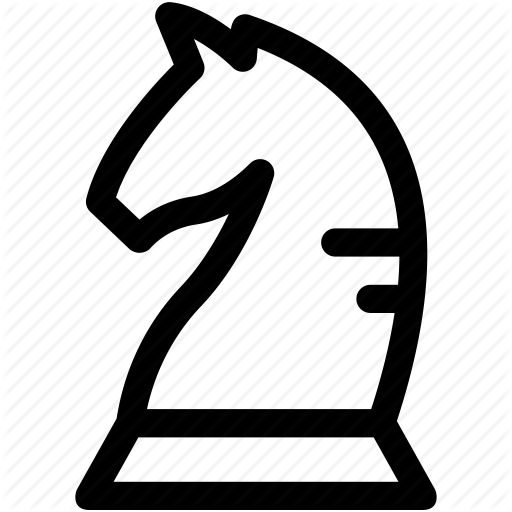
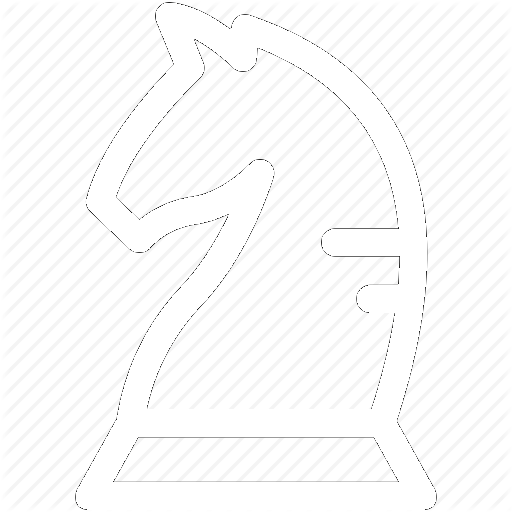
Assembled the ARMY Fixed the licence and images. Placed the pieces.

Changed region(s): [[0.125, 0.0, 0.875, 1.0]]

diff --git a/src/sfmlcanvas.cpp b/src/sfmlcanvas.cpp
@@ -4,10 +4,18 @@
 sfCanvas::sfCanvas(QWidget *parent, const QPoint& position, const QSize& size) :
     QSFMLCanvas(parent, position, size)
 {
-    QResource n(":/knight");
-    mTexture.loadFromMemory(n.data(),std::size_t(n.size()));
-    mSprite.setTexture(mTexture);
-    mSprite.setColor(sf::Color(51,51,51));
+    QResource n(":/king");
+    king.loadFromMemory(n.data(),std::size_t(n.size()));
+    n.setFileName(":/queen");
+    queen.loadFromMemory(n.data(),std::size_t(n.size()));
+    n.setFileName(":/bishop");
+    bishop.loadFromMemory(n.data(),std::size_t(n.size()));
+    n.setFileName(":/knight");
+    knight.loadFromMemory(n.data(),std::size_t(n.size()));
+    n.setFileName(":/rook");
+    rook.loadFromMemory(n.data(),std::size_t(n.size()));
+    n.setFileName(":/pawn");
+    pawn.loadFromMemory(n.data(),std::size_t(n.size()));
 }
 
 void sfCanvas::onInit()
@@ -21,17 +29,32 @@ void sfCanvas::onUpdate()
     int h = height()/8, w = width()/8;
 
     sf::RectangleShape rect(sf::Vector2f(w,h));
-    rect.setOutlineColor(sf::Color::Green);
     for(int i=0;i<8;i++)
         for(int j=0;j<8;j++)
         {
-            rect.setFillColor((i+j)%2?sf::Color::White:sf::Color::Black);
+            rect.setFillColor((i+j)%2?sf::Color(179,179,179):sf::Color(77,77,77));
             rect.setPosition(i*w,j*h);
             sf::RenderWindow::draw(rect);
-            if(i==1 && j==0)
+            if(j==6 || j==1)
             {
-                rect.setTexture(&mTexture,true);
-                rect.setFillColor(sf::Color::White);
+                rect.setTexture(&pawn);
+                rect.setFillColor(j==6?sf::Color::Black:sf::Color::White);
+                sf::RenderWindow::draw(rect);
+                rect.setTexture(nullptr,true);
+            }
+            else if((j==0) || (j==7))
+            {
+                if((i==0) || (i==7))
+                    rect.setTexture(&rook);
+                else if((i==1) || (i==6))
+                    rect.setTexture(&knight);
+                else if((i==2) || (i==5))
+                    rect.setTexture(&bishop);
+                else if(((j==0) && (i==3)) || ((j==7) && (i==4)))
+                    rect.setTexture(&queen);
+                else
+                    rect.setTexture(&king);
+                rect.setFillColor(j==7?sf::Color::Black:sf::Color::White);
                 sf::RenderWindow::draw(rect);
                 rect.setTexture(nullptr,true);
             }

diff --git a/src/mainwindow.cpp b/src/mainwindow.cpp
@@ -77,7 +77,7 @@ void MainWindow::loadfile()
                                 list.last().white + " " +
                                 list.last().black);
     }
-    ui->listWidget->item(0)->setTextColor(QColor(100,255,100));
+    ui->listWidget->setCurrentRow(0);
 }
 
 void MainWindow::changeHighLight(QListWidgetItem */*item*/)

diff --git a/header/sfmlcanvas.h b/header/sfmlcanvas.h
@@ -10,9 +10,7 @@ private:
     void onInit();
     void onUpdate();
 
-    sf::Texture mTexture;
-    sf::Sprite mSprite;
-    sf::Image mImage;
+    sf::Texture king,queen,knight,bishop,rook,pawn;
 
 public:
     explicit sfCanvas(QWidget *parent, const QPoint& position=QPoint(0,0), const QSize& size=QSize(200,200));
